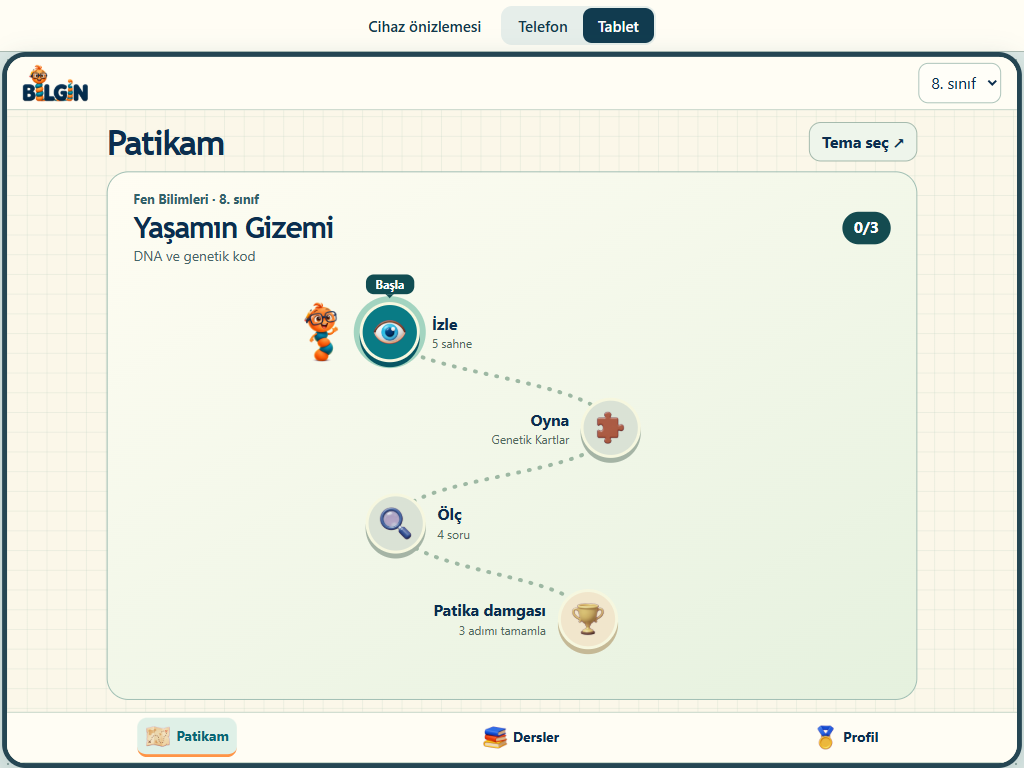
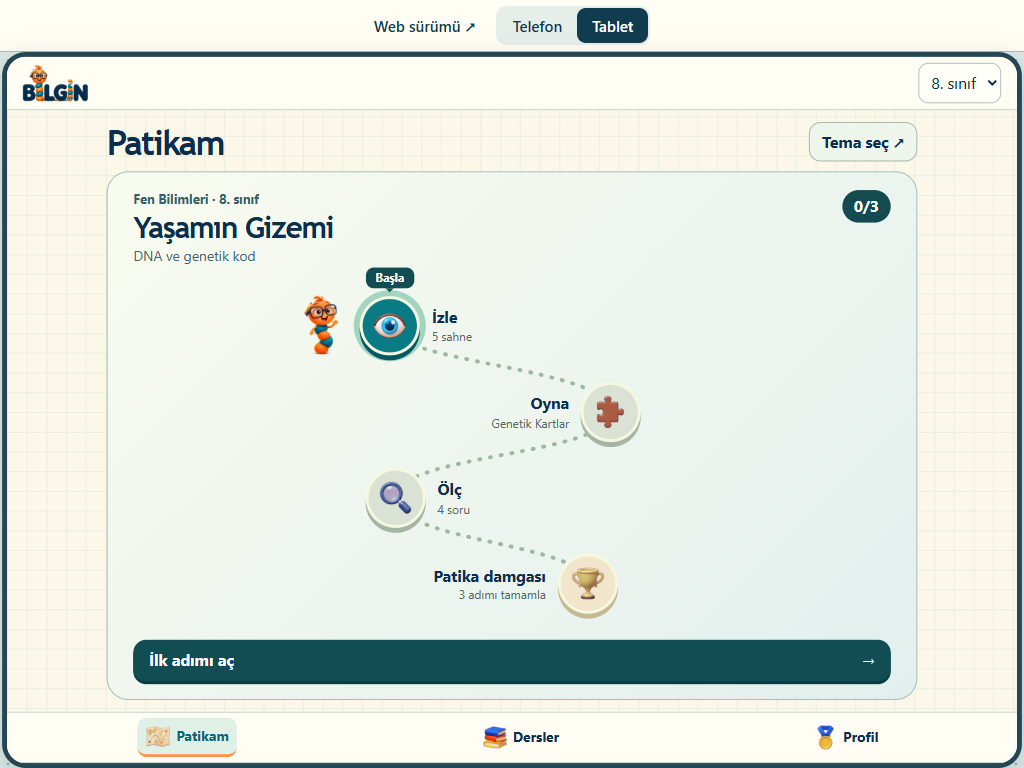
Add a grade-aware student web desk, game shelf and skills view

diff --git a/web/web.css b/web/web.css
@@ -1,0 +1,12 @@
+body{height:auto;min-height:100dvh;display:grid;grid-template-columns:190px minmax(0,1fr);grid-template-rows:70px 1fr auto;grid-template-areas:"top top" "nav main" "links main";background-color:#fcf9ee}
+.top{grid-area:top;justify-content:flex-start;padding:8px clamp(18px,3vw,46px);gap:16px;background:#fffdf6}.top img{width:83px;height:46px}.top .line{height:26px;border-left:1px solid #b8cbbb}.top strong{font-size:15px;color:#426361}.top label{margin-left:auto;font-size:14px}.top select{font-weight:750;margin-left:5px}
+nav{grid-area:nav;display:flex;flex-direction:column;justify-content:start;align-items:stretch;padding:30px 12px;gap:8px;background:#f4f4e7;border:0;border-right:1px solid #c5d2bf}nav a{justify-content:start;padding:10px 14px;gap:12px;font-size:16px}nav a[aria-current]{border:1px solid #a5c4ae;background:#dfedde}.resources{grid-area:links;display:grid;gap:8px;background:#f4f4e7;border-right:1px solid #c5d2bf;padding:14px 16px 24px}.resources a{color:#486353;font-weight:600;font-size:13px}.resources a:hover,.sectionTitle a:hover{text-decoration:underline}
+#screen{grid-area:main;width:min(100%,1310px);height:auto;min-height:calc(100dvh - 70px);padding:clamp(18px,3vw,46px);gap:18px;align-self:start;margin-inline:auto}
+h1{font-size:clamp(30px,3.3vw,54px)}.deskTitle,.sectionTitle,.journeyFoot{display:flex;align-items:center;justify-content:space-between;gap:12px}.deskTitle>a,.sectionTitle a{color:#245d55;font-weight:750;font-size:14px;display:inline-flex;align-items:center;gap:7px}.deskTitle>a{background:#fff3cf;border:1px solid #d8c196;border-radius:18px;padding:6px 12px}.deskTitle img{width:23px}
+.deskLayout{display:grid;grid-template-columns:minmax(0,1.65fr) minmax(210px,1fr);gap:16px}.featured,.journey,.gameCard{border:1px solid #a8c3af;border-radius:23px;overflow:hidden}.featured{position:relative;min-height:clamp(280px,37vh,410px);background:radial-gradient(ellipse at 79% 34%,#fff4c8 2%,transparent 51%),linear-gradient(120deg,#daefe5,#f2f2d5);display:grid;align-items:end}.featureArt{position:absolute;inset:0 0 0 37%;display:grid;align-items:center}.featureArt img{width:100%;height:88%;object-fit:contain;filter:drop-shadow(0 8px 6px #505e361a)}.featureCopy{position:relative;width:58%;align-self:center;padding:clamp(16px,2.1vw,32px);display:grid;justify-items:start;gap:10px}.featureCopy h2{font-size:clamp(28px,3vw,48px)}.featureCopy .action{margin-top:6px}.journey{padding:clamp(16px,1.6vw,24px);background:#fffdf3;display:grid;align-content:space-between;gap:14px}.sectionTitle h2{font-size:clamp(21px,2vw,30px)}.journey ol{margin:0;padding:0;list-style:none;display:grid;gap:10px}.journey li{display:flex;align-items:center;gap:11px}.journey li>span{background:#ecede3;border:1px solid #bdc9b8;border-radius:50%;min-width:32px;height:32px;display:grid;place-items:center;font-weight:800}.journey li.next>span{background:#ffd091;color:#4b371e;border-color:#d99a4e}.journey li.complete>span{background:#d5edd3}.journey li small{display:block;color:#52645c}.journeyFoot{padding-top:9px;border-top:1px dashed #c6cfba;font-size:14px}.journeyFoot img{width:26px}.journeyFoot span{margin-right:auto}.courses{display:grid;gap:12px}.courseGrid,.gameGrid{display:grid;grid-template-columns:repeat(3,minmax(0,1fr));gap:12px}.subjectCard{background:#fffdf6;border:1px solid #bccdc0;border-radius:16px;display:flex;align-items:center;text-align:left;gap:12px;padding:12px}.subjectCard:hover,.gameCard:hover{border-color:#4b927d}.subjectCard img{width:50px;height:50px;object-fit:contain;padding:4px;border-radius:12px;background:#e5f1e4}.hue1 img{background:#fff0d9}.hue2 img{background:#e2eef2}.subjectCard b,.subjectCard small{display:block}.subjectCard small{color:#4e655c}.subjectCard i{margin-left:auto;font-style:normal;font-size:23px}.gameCard{padding:18px;background:#fffdf5;display:grid;align-content:start;gap:9px}.gameCard img{width:56px;height:56px;object-fit:contain}.gameCard h2{font-size:22px}.gameCard .action{align-self:end}.gameCard p{font-size:15px}
+#screen>.trail{height:clamp(520px,69vh,740px);flex:none}.choices{min-height:380px;grid-template-columns:1fr 1fr;align-content:center;align-items:center;padding:clamp(20px,4vw,70px);gap:20px}.choices article,.choices button{grid-column:1/-1}.choices article{padding:22px}.choices .action{justify-self:start}.badgeBoard{min-height:360px}.profileTabs{max-width:520px}.collection{min-height:280px}.badgeTile{min-height:110px}.boardHeading span{margin-left:auto}
+@media(min-width:1500px){body{grid-template-columns:220px 1fr}}
+@media(max-width:1000px){body{grid-template-columns:145px 1fr}nav{padding-inline:7px}nav a{padding-inline:8px}.featureArt{inset:0 0 15% 44%}.courseGrid,.gameGrid{grid-template-columns:repeat(2,minmax(0,1fr))}.deskLayout{grid-template-columns:1.35fr 1fr}.featureCopy{width:67%}}
+@media(max-width:740px){body{display:flex;flex-direction:column}.top{padding:6px 12px}.top strong,.top .line{display:none}.top img{width:64px;height:36px}nav{position:sticky;top:0;z-index:5;flex-direction:row;justify-content:space-around;gap:0;padding:3px 0;border-bottom:1px solid #c5d2bf}nav a{flex-direction:column;gap:0;font-size:11px;padding:3px 4px}nav img{width:22px;height:22px}#screen{min-height:0;gap:12px;padding:14px}.deskLayout{grid-template-columns:1fr}.featured{min-height:210px}.featureCopy{width:62%}.featureArt{inset:0 0 0 48%}.journey ol{grid-template-columns:repeat(3,1fr);gap:4px}.journey li{gap:5px}.journey li small,.journeyFoot{display:none}.journey{padding:12px}.subjectCard{padding:8px;gap:6px}.subjectCard img{width:34px;height:34px}.subjectCard b{font-size:14px}.subjectCard i{display:none}.resources{display:flex;justify-content:center;flex-wrap:wrap;margin-top:auto;border:0;padding:10px}.resources a{font-size:12px}.choices{display:flex;flex-direction:column;align-items:stretch;justify-content:center;min-height:350px}.gameGrid{gap:8px}.gameCard{padding:10px}.gameCard h2{font-size:18px}#screen>.trail{height:max(410px,calc(100dvh - 230px))}}
+.resultsGrid{display:grid;grid-template-columns:repeat(auto-fit,minmax(min(270px,100%),1fr));gap:12px}.skillRows{list-style:none;padding:0}.skillRows li{display:grid;gap:3px;border-top:1px dashed #b7c7b8;padding:10px 0}.skillRows li span,.moreMap{font-size:14px;color:#405f57}.moreMap{text-decoration:underline}.skillPicker select{margin-left:8px}.resultsGrid .action{border:0}body[data-band=ilk] .subjectCard img{width:60px;height:60px}body[data-band=ilk] .journey li>span{border-radius:12px}.featured:after{content:"";position:absolute;top:9px;right:18px;width:38px;height:7px;background:repeating-linear-gradient(110deg,#ebb06b 0 4px,transparent 4px 8px);pointer-events:none}
+.featured{grid-template-columns:minmax(0,1fr) minmax(0,1fr);align-items:center}.featureArt{position:static;grid-column:2;grid-row:1;height:100%;min-width:0}.featureCopy{width:auto;grid-column:1;grid-row:1;padding-right:0;overflow-wrap:anywhere}.featureArt img{height:100%;max-height:330px}.themeIndex,.closeDialog{border:1px solid #b4c9bb;border-radius:12px;background:#f4f7eb;padding:9px 14px;font-weight:700;cursor:pointer}.choices .themeIndex{justify-self:start}.themeDialog{color:#10384b;width:min(560px,94vw);max-height:82dvh;border:1px solid #a5bdaf;border-radius:22px;padding:22px;background:#fffdf4}.themeDialog::backdrop{background:#183f47a0}.themeDialog ul{list-style:none;padding:0;margin-bottom:0}.themeDialog li{display:flex;justify-content:space-between;align-items:center;gap:8px;padding:9px 0;border-top:1px dashed #becbbd}.themeDialog li small{white-space:nowrap;color:#52685c}.themeDialog li button{font-size:13px;flex-shrink:0}

diff --git a/mobil/mobil.js b/mobil/mobil.js
@@ -5,7 +5,7 @@ const icons={'Matematik':'matematik','Fen Bilimleri':'fen','Türkçe':'turkce','
 gradeSelect.onchange=()=>{
  grade=gradeSelect.value;
  if(!subjects().includes(subject))subject=subjects()[0];
- theme='temel';openRoute(['#profil','#pasaport'].includes(location.hash)?location.hash.slice(1):'dersler');
+ theme='temel';const route=location.hash.slice(1);openRoute(webMode?(route||'masa'):(['profil','pasaport'].includes(route)?route:'dersler'));
 };
 function openRoute(route){
  remember();history.replaceState(null,'',url('uygulama.html','#'+route));render();
@@ -23,19 +23,24 @@ function path(){
    const label=titles[i]+', '+(done?(award?'pasaportunu aç':'tekrar aç'):active?'başla':'kilitli');
    return `<div class="stop ${x>50?'west':'east'}" style="--x:${x}%;--y:${y}%">
      <button class="node ${state}${award?' award':''}" ${action} aria-label="${label}" ${!done&&!active?'disabled':''}>
-     <img class="nodeIcon" src="ikon/${marks[i]}.png" alt="">${done&&!award?'<b class="doneTick" aria-hidden="true">✓</b>':''}</button>
+     <img class="nodeIcon" src="../mobil/ikon/${marks[i]}.png" alt="">${done&&!award?'<b class="doneTick" aria-hidden="true">✓</b>':''}</button>
      <div class="stopLabel"><strong>${titles[i]}</strong><small>${hints[i]}</small></div>
      ${active?'<span class="startFlag">Başla</span><img class="guideWorm" src="../img/poz_selam.webp" alt="">':''}</div>`;
  }).join('');
  const road='M29 16 C29 26 67 27 67 39 S30 50 30 62 S63 74 63 85';
  screen.innerHTML='<div class="heading"><h1>Patikam</h1><a class="switchLesson" href="#dersler">Tema seç ↗</a></div>'+`<section class="trail"><div class="trailTitle"><div><p class="eyebrow">${subject} · ${grade}. sınıf</p><h2>${current().title}</h2><p class="topicHint">${l.konu}</p></div><span class="score" aria-label="${n} adım tamamlandı">${n}/3</span></div>
- <div class="land"><svg class="track" viewBox="0 0 100 100" preserveAspectRatio="none" aria-hidden="true"><path d="${road}"/></svg>${nodes}</div></section>`;
+ <div class="land"><svg class="track" viewBox="0 0 100 100" preserveAspectRatio="none" aria-hidden="true"><path d="${road}"/></svg>${nodes}</div><a class="trailContinue" href="${n===3?'#pasaport':url('etkinlik.html')+'&adim='+steps[n]}"><span>${n===3?'Damgamı gör':n===0?'İlk adımı aç':'Kaldığım yerden devam et'}</span><b aria-hidden="true">→</b></a></section>`;
  screen.querySelectorAll('[data-step]').forEach(b=>b.onclick=()=>location.href=url('etkinlik.html')+'&adim='+steps[Number(b.dataset.step)]);
  screen.querySelector('[data-award]').onclick=()=>location.hash='pasaport';
 }
 function catalog(){
  screen.innerHTML='<h1>Dersler</h1><form id="choices" class="paper choices"><label>Ders<select id="subject"></select></label><label>Tema<select id="theme"></select></label><article id="preview"></article><button class="action">Patikayı aç →</button></form>';
  const course=screen.querySelector('#subject'),picker=screen.querySelector('#theme');
+ if(webMode){
+  const indexButton=document.createElement('button');
+  indexButton.type='button';indexButton.className='themeIndex';indexButton.textContent='Tüm sınıf temalarını incele';
+  indexButton.onclick=()=>curriculum(course.value);screen.querySelector('#choices').append(indexButton);
+ }
  for(const s of subjects())course.add(new Option(s,s,false,s===subject));
  function populate(preferred){
   picker.replaceChildren();
@@ -62,7 +67,7 @@ function profile(page){
  const counts=new Map(list.map(s=>[s,stamps.filter(x=>x.grade===grade&&x.subject===s).length]));
  const badges=[...counts.values()].filter(Boolean).length;
  const passport=page==='pasaport';
- screen.innerHTML=`<div class="heading"><h1>Profilim</h1></div><div class="profileSummary"><img src="../img/poz_rozet.webp" alt=""><div><strong>${stamps.length} damga</strong><small>Tüm sınıflardaki pasaportum</small></div></div><div class="profileTabs"><a href="#pasaport" ${passport?'aria-current="page"':''}><img src="ikon/defter.png" alt="">Pasaportum</a><a href="#profil" ${!passport?'aria-current="page"':''}><img src="ikon/madalya.png" alt="">Rozetlerim</a></div><article class="paper collection"></article><div class="pager"></div>`;
+ screen.innerHTML=`<div class="heading"><h1>Profilim</h1></div><div class="profileSummary"><img src="../img/poz_rozet.webp" alt=""><div><strong>${stamps.length} damga</strong><small>Tüm sınıflardaki pasaportum</small></div></div><div class="profileTabs"><a href="#pasaport" ${passport?'aria-current="page"':''}><img src="../mobil/ikon/defter.png" alt="">Pasaportum</a><a href="#profil" ${!passport?'aria-current="page"':''}><img src="../mobil/ikon/madalya.png" alt="">Rozetlerim</a></div><article class="paper collection"></article><div class="pager"></div>`;
  const card=screen.querySelector('.collection');
  if(passport){
   if(!stamps.length){card.innerHTML='<h2>İlk damganı kazan</h2><p>Bir temanın İzle, Oyna ve Ölç adımlarını bitir. Tema damgan bu pasaporta işlenecek.</p><a class="action" href="#dersler">Tema seç →</a>';return}
@@ -84,10 +89,11 @@ function profile(page){
  }
 }
 function render(){
- let page=location.hash.slice(1)||'patika';
+ let page=location.hash.slice(1)||(webMode?'masa':'patika');
+ document.body.dataset.band=Number(grade)<=3?'ilk':Number(grade)>=7?'ust':'orta';
  if(['harita','defter','rozetler'].includes(page))page='profil';
  const tab=page==='pasaport'?'profil':page;
  document.querySelectorAll('nav a').forEach(a=>{if(a.hash==='#'+tab)a.setAttribute('aria-current','page');else a.removeAttribute('aria-current')});
- if(page==='dersler')catalog();else if(page==='profil'||page==='pasaport')profile(page);else path();
+ if(webMode&&page==='masa')desk();else if(webMode&&page==='oyunlar')games();else if(webMode&&page==='beceri')skillMap();else if(page==='dersler')catalog();else if(page==='profil'||page==='pasaport')profile(page);else path();
 }
 window.addEventListener('pageshow',render);window.addEventListener('hashchange',render);render();

diff --git a/web/masa.js b/web/masa.js
@@ -1,0 +1,57 @@
+function subjectCards(){
+ return subjects().map((s,i)=>`<button class="subjectCard hue${i%3}" data-course="${s}"><img src="../assets/ders/${icons[s]}.png" alt=""><span><b>${s}</b><small>${themeList(grade,s).length} tema</small></span><i aria-hidden="true">›</i></button>`).join('');
+}
+function bindCourses(){
+ screen.querySelectorAll('[data-course]').forEach(b=>b.onclick=()=>{
+  subject=b.dataset.course;theme='temel';openRoute('dersler');
+ });
+}
+function desk(){
+ const l=lesson(),n=level(),stamps=earned();
+ const art=grade==='4'?'../assets/bridge2.png':'../assets/sahne/k'+grade+'.webp';
+ const next=n===3?'Patikayı tekrar aç':n===0?'Patikaya başla':'Kaldığın yerden devam et';
+ screen.innerHTML=`<div class="deskTitle"><h1>Öğrenme masam</h1><a href="#pasaport"><img src="../mobil/ikon/madalya.png" alt=""> ${stamps.length} damga</a></div>
+ <div class="deskLayout"><article class="featured"><div class="featureArt"><img src="${art}" alt=""></div><div class="featureCopy"><p class="eyebrow">${subject} · ${grade}. sınıf</p><h2>${current().title}</h2><p>${l.konu}</p><a class="action" id="continue" href="${n===3?'#patika':url('etkinlik.html')+'&adim='+steps[n]}">${next} →</a></div></article>
+ <section class="journey"><div class="sectionTitle"><h2>Patikam</h2><a href="#patika">Haritayı aç →</a></div><ol>${labels.map((label,i)=>`<li class="${i<n?'complete':i===n?'next':''}"><span>${i<n?'✓':i+1}</span><div><b>${label}</b><small>${[l.v.length+' anlatım sahnesi',l.oyun.ad,l.test.length+' soru'][i]}</small></div></li>`).join('')}</ol><div class="journeyFoot"><img src="../mobil/ikon/kupa.png" alt=""><span>${n===3?'Damgan pasaportunda':'Tema damgası'}</span><b>${n}/3</b></div></section></div>
+ <section class="courses"><div class="sectionTitle"><h2>Derslerim</h2><a href="#dersler">Tema seç →</a></div><div class="courseGrid">${subjectCards()}</div></section>`;
+ bindCourses();
+}
+function games(){
+ screen.innerHTML=`<div class="deskTitle"><h1>Oyun dolabı</h1><a href="../?k=${grade}#oyna">Bilgin’in oyun masası ↗</a></div><div class="gameGrid">${subjects().map(s=>{
+  const l=originals[grade+'|'+s],q=new URLSearchParams({k:grade,d:s});
+  return `<article class="gameCard"><img src="../assets/ders/${icons[s]}.png" alt=""><p class="eyebrow">${s}</p><h2>${l.oyun.ad}</h2><p>${l.oyun.yonerge}</p><a class="action" href="oyun.html?${q}">Oyna →</a></article>`;
+ }).join('')}</div>`;
+}
+function skillMap(){
+ screen.innerHTML='<div class="deskTitle"><h1>Beceri haritam</h1></div><label class="skillPicker">Ders <select id="mapCourse" aria-label="Rapor dersi"></select></label><section class="resultsGrid"></section><a class="moreMap" href="../#harita">AI-LA’nın altı platformdan oluşan örnek beceri haritasını incele ↗</a>';
+ const picker=screen.querySelector('#mapCourse');
+ subjects().forEach(s=>picker.add(new Option(s,s,false,s===subject)));
+ function show(){
+  const course=picker.value;
+  screen.querySelector('.resultsGrid').innerHTML=themeList(grade,course).map(t=>{
+   const score=result(grade,course,t.id);
+   const rows=t.lesson.beceri.map(name=>{
+    const record=Array.isArray(score?.skills)?score.skills.find(b=>b?.name===name&&Number.isInteger(b.correct)&&Number.isInteger(b.total)&&b.total>0):null;
+    return `<li><strong>${name}</strong><span>${record?record.correct+' / '+record.total+' ilk denemede doğru':'Henüz ölçülmedi'}</span>${record?'<meter aria-label="'+name+'" value="'+record.correct+'" max="'+record.total+'"></meter>':''}</li>`;
+   }).join('');
+   return `<article class="gameCard"><p class="eyebrow">${course}</p><h2>${t.title}</h2><ul class="skillRows">${rows}</ul><button class="action" data-theme="${t.id}">Patikaya git →</button></article>`;
+  }).join('');
+  screen.querySelectorAll('[data-theme]').forEach(b=>b.onclick=()=>{subject=course;theme=b.dataset.theme;openRoute('patika')});
+ }
+ picker.onchange=show;show();
+}
+function curriculum(course){
+ const list=themeList(grade,course),names=TEMALAR[grade+'|'+course]||[];
+ const titles=[...new Set([...names,...list.map(t=>t.title)])];
+ const dialog=document.createElement('dialog');dialog.className='themeDialog';
+ dialog.setAttribute('aria-labelledby','themeIndexTitle');
+ dialog.innerHTML=`<div class="sectionTitle"><div><p class="eyebrow">${grade}. sınıf · ${course}</p><h2 id="themeIndexTitle">Tema dizini</h2></div><button class="closeDialog" aria-label="Kapat">×</button></div><ul>${titles.map(title=>{
+  const playable=list.find(t=>t.title===title);
+  return '<li><strong>'+title+'</strong>'+(playable?'<button class="action" data-open="'+playable.id+'">Patikayı aç →</button>':'<small>Program teması</small>')+'</li>';
+ }).join('')}</ul>`;
+ document.body.append(dialog);
+ dialog.querySelector('.closeDialog').onclick=()=>dialog.close();
+ dialog.onclose=()=>dialog.remove();
+ dialog.querySelectorAll('[data-open]').forEach(b=>b.onclick=()=>{dialog.close();subject=course;theme=b.dataset.open;openRoute('patika')});
+ dialog.showModal();
+}

diff --git a/index.html b/index.html
@@ -752,7 +752,7 @@ body.dolapta .sekme-kenar{opacity:0;pointer-events:none;transform:translate(100%
   <h2 id="girisBaslik">Sizin için hazırlanıyoruz</h2>
   <p>Bilgin’de öğrenci, öğretmen ve veli girişi çok yakında açılıyor. Patikalar, oyunlar ve beceri haritası sizin için hazırlanıyor.</p>
   <p class="giris-alt">Okulunuzu ilk açılanlar arasına almak için şimdiden demo talep edebilirsiniz.</p>
-  <div class="giris-btnler"><button class="hap turuncu" id="girisDemo" type="button">Demo talep et</button><button class="hap cizgi" type="button" data-kapat>Tamam</button></div>
+  <div class="giris-btnler"><button class="hap turuncu" id="girisDemo" type="button">Demo talep et</button><a class="hap cizgi" href="web/">Öğrenci alanını aç</a></div>
 </dialog>
 
 <nav class="sekme-kenar" id="sekmeKenar" aria-label="Sınıf sekmeleri"><button class="sk sk1" data-k="1" aria-pressed="false" aria-label="1. sınıf">K1</button><button class="sk sk2" data-k="2" aria-pressed="false" aria-label="2. sınıf">K2</button><button class="sk sk3" data-k="3" aria-pressed="false" aria-label="3. sınıf">K3</button><button class="sk sk4" data-k="4" aria-pressed="false" aria-label="4. sınıf">K4</button><button class="sk sk5" data-k="5" aria-pressed="false" aria-label="5. sınıf">K5</button><button class="sk sk6" data-k="6" aria-pressed="false" aria-label="6. sınıf">K6</button><button class="sk sk7" data-k="7" aria-pressed="false" aria-label="7. sınıf">K7</button><button class="sk sk8" data-k="8" aria-pressed="false" aria-label="8. sınıf">K8</button></nav>
@@ -927,7 +927,7 @@ body.dolapta .sekme-kenar{opacity:0;pointer-events:none;transform:translate(100%
   </div>
 </section>
 </main>
-<footer><div class="ic"><img class="logo-acik" src="assets/logo.png" alt="BİLGİN"><img class="logo-koyu" src="assets/logo_beyaz.png" alt="BİLGİN"><nav class="alt-nav" aria-label="Alt menü"><a href="kvkk/">KVKK</a><a href="#kurumlar">Demo talebi</a><a href="https://ai-la.ai" target="_blank" rel="noopener">ai-la.ai</a></nav><span>Bilgin bir <a href="https://ai-la.ai" target="_blank" rel="noopener">AI-LA ekosistem</a> ürünüdür. İçerikler Türkiye Yüzyılı Maarif Modeli öğretim programlarına göre hazırlanır. Oyun adları ve puanlar tanıtım örneğidir.</span></div></footer>
+<footer><div class="ic"><img class="logo-acik" src="assets/logo.png" alt="BİLGİN"><img class="logo-koyu" src="assets/logo_beyaz.png" alt="BİLGİN"><nav class="alt-nav" aria-label="Alt menü"><a href="web/">Öğrenci alanı</a><a href="kvkk/">KVKK</a><a href="#kurumlar">Demo talebi</a><a href="https://ai-la.ai" target="_blank" rel="noopener">ai-la.ai</a></nav><span>Bilgin bir <a href="https://ai-la.ai" target="_blank" rel="noopener">AI-LA ekosistem</a> ürünüdür. İçerikler Türkiye Yüzyılı Maarif Modeli öğretim programlarına göre hazırlanır. Oyun adları ve puanlar tanıtım örneğidir.</span></div></footer>
 
 <script src="iop/icerik.js"></script>
 <script src="iop/iop.js"></script>
@@ -1059,7 +1059,9 @@ $('#dolapK').onclick=e=>{const b=e.target.closest('.dk'); if(!b) return; ton('ti
   const o=$('#oyna'), y=o.getBoundingClientRect().top; sinif(+b.dataset.k); const f=o.getBoundingClientRect().top-y; if(Math.abs(f)>1) scrollBy(0,f);};
 /* dolap ekrandayken kenar sekmeleri çekilir: sınıf seçimi dolabın kendi satırında */
 if('IntersectionObserver' in window){ const ic=new Set(); const io=new IntersectionObserver(gl=>{gl.forEach(g=>g.isIntersecting?ic.add(g.target):ic.delete(g.target)); document.body.classList.toggle('dolapta',ic.size>0);},{rootMargin:'-45% 0px -45% 0px'}); [$('#oyna'),$('#patika'),$('#gecit')].forEach(el=>el&&io.observe(el)); }
-sinif(4);
+const baslangicSinifi=Number(new URLSearchParams(location.search).get("k"));
+const ilkSinif=Number.isInteger(baslangicSinifi)&&baslangicSinifi>=1&&baslangicSinifi<=8?baslangicSinifi:4;
+sinif(ilkSinif);
 window.__heroHazir=true;
 
 /* ---------- beceri haritası ---------- */
@@ -1339,7 +1341,7 @@ function dolapOyunAc(i){
 }
 $('#oyunSekme').onclick=e=>{const b=e.target.closest('button.oyun-ad'); if(b){ton('tik'); dolapOyunAc(+b.dataset.o);}};
 $('#dolapRaf').onclick=e=>{const g=e.target.closest('.goz'); if(!g) return; ton('tik'); dolapDers=g.dataset.d; dolapOyna();};
-dolapCiz(4);
+dolapCiz(ilkSinif);
 window.__dolapHazir=true;
 /* İzle, oyna, ölç: dolabın masa sütununa üç adım. Oyna = dolabın oyunları, ölç sonucu beceri haritasına. */
 (()=>{

diff --git a/mobil/mobil.css b/mobil/mobil.css
@@ -17,3 +17,4 @@ nav a{display:inline-flex;align-items:center;justify-content:center;gap:5px;padd
 .badgeBoard{flex:1;min-height:0;display:flex;flex-direction:column;gap:8px}.boardHeading{display:flex;justify-content:space-between;align-items:center;gap:6px}.boardHeading h2{font-size:20px}.boardHeading span{font-size:13px;color:#365d59}.badges{list-style:none;display:grid;grid-template-columns:repeat(2,minmax(0,1fr));grid-auto-rows:minmax(0,1fr);gap:8px;margin:0;padding:0;flex:1;min-height:0}.badgeTile{border:1px solid #b8ccc4;border-radius:17px;background:linear-gradient(145deg,#fffdf6,#edf4eb);display:flex;flex-direction:column;align-items:center;justify-content:center;gap:4px;padding:5px;min-height:0;text-align:center}.badgeTile.earned{border-color:#79aa93;background:linear-gradient(145deg,#faffef,#deefe5)}.badgeTile.mastered{border-color:#d4a648;background:linear-gradient(145deg,#fff9dd,#f9eac4)}.badgeFace{position:relative;display:grid;place-items:center;width:clamp(42px,7vh,71px);aspect-ratio:1;max-height:49%;transform:scale(var(--growth));background:#e0ece4;border-radius:36% 36% 47% 47%;box-shadow:0 3px 0 #b8ccc3}.earned .badgeFace,.mastered .badgeFace{background:#ffdf93;box-shadow:0 3px 0 #c89a4b}.badgeFace img{width:82%;height:82%;object-fit:contain}.badgeTile strong{font-size:14px;line-height:1.1}.badgeMeter{display:flex;align-items:center;justify-content:center;gap:6px;width:86%;font-variant-numeric:tabular-nums}.badgeMeter progress{width:54%;height:8px;accent-color:#117d75}.badgeMeter small{font-size:11px}.badgeTile.waiting .badgeFace img{filter:saturate(.8)}
 @media(min-width:600px){.badges{grid-template-columns:repeat(3,minmax(0,1fr))}.badgeFace{width:clamp(52px,10vh,84px)}.badgeTile strong{font-size:17px}.badgeMeter small{font-size:13px}}
 @media(max-height:690px){main:has(.badgeBoard){gap:6px}main:has(.badgeBoard) .profileSummary img{width:38px;height:38px}.badgeTile{gap:3px}}
+.trailContinue{display:flex;align-items:center;justify-content:space-between;padding:9px 16px;min-height:42px;background:#114d52;color:white;border-radius:13px;font-weight:750;box-shadow:0 3px 0 #083c41}.trail{background:radial-gradient(ellipse at 5% 90%,#dceccc 1%,transparent 42%),linear-gradient(150deg,#fffdf3,#eef4e6)}.trailTitle{align-items:flex-start}.trailTitle .score{flex-shrink:0}.choices article{background:#edf4e5;border:1px solid #c3d3bc;border-radius:16px;padding:12px}.choices .action{min-height:44px;justify-self:stretch;text-align:center}.profileSummary{background:#fff2ce;border:1px solid #e9cea0;border-radius:14px;padding:3px 10px}.profileSummary img{height:48px}.trailContinue:focus-visible,.action:focus-visible{outline-offset:3px}body[data-band=ilk] .node{border-width:4px}body[data-band=ilk] .stopLabel strong{font-size:18px}body[data-band=ust] .trail{background:linear-gradient(135deg,#f8fbef,#e3efee)}

diff --git a/mobil/index.html b/mobil/index.html
@@ -1,7 +1,7 @@
 <!doctype html><html lang="tr"><meta charset="utf-8"><meta name="viewport" content="width=device-width,initial-scale=1,viewport-fit=cover"><title>BİLGİN · Patika simülatörü</title><link rel="icon" href="../favicon.ico">
 <style>
 *{box-sizing:border-box}body{margin:0;height:100dvh;display:grid;grid-template-rows:auto minmax(0,1fr);background:#dbe7e4;color:#14384c;font:600 15px 'Segoe UI',sans-serif}header{display:flex;align-items:center;justify-content:center;gap:20px;padding:6px;background:#fffdf4;border-bottom:1px solid #abbbb3}header img{width:58px;height:32px;object-fit:contain}button{border:0;border-radius:9px;min-height:35px;padding:0 15px;font:inherit;color:inherit;background:transparent;cursor:pointer}button[aria-pressed=true]{background:#113b4f;color:white}.switch{background:#e6eeea;border-radius:11px;padding:2px}main{position:relative;min-height:0;background-image:radial-gradient(#93aaa5 1px,transparent 1px);background-size:16px 16px}iframe{position:absolute;top:50%;left:50%;transform-origin:center;background:#fff9ec;border:5px solid #254653;border-radius:24px;box-shadow:0 7px 26px #244f5330;box-sizing:content-box}@media(max-width:500px){header{justify-content:space-between;padding-inline:12px}iframe{border-width:0;border-radius:0}}
-</style><header><span>Cihaz önizlemesi</span><div class="switch" aria-label="Cihaz önizlemesi"><button data-mode="telefon">Telefon</button><button data-mode="tablet">Tablet</button></div></header><main><iframe title="BİLGİN öğrenci uygulaması"></iframe></main><script>
+</style><header><a href="../web/" style="color:inherit;text-decoration:none">Web sürümü ↗</a><div class="switch" aria-label="Cihaz önizlemesi"><button data-mode="telefon">Telefon</button><button data-mode="tablet">Tablet</button></div></header><main><iframe title="BİLGİN öğrenci uygulaması"></iframe></main><script>
 const frame=document.querySelector('iframe'),stage=document.querySelector('main');
 let mode=innerWidth>=740&&innerWidth<=1100?'tablet':'telefon';
 function size(){

diff --git a/web/oyun.html b/web/oyun.html
@@ -1,0 +1,18 @@
+<!doctype html><html lang="tr"><meta charset="utf-8"><meta name="viewport" content="width=device-width,initial-scale=1"><title>Oyun masası · BİLGİN</title><link rel="icon" href="../favicon.ico"><link rel="stylesheet" href="../iop/iop.css"><link rel="stylesheet" href="../mobil/mobil.css"><link rel="stylesheet" href="../mobil/etkinlik.css"><style>
+#iop .io-adimlar{display:none}#iop{padding-top:15px}.freeplay{max-width:900px}body{grid-template-rows:56px 1fr}
+</style><header><a id="back">← Oyun dolabı</a><img src="../assets/logo.png" alt="Bilgin"></header><main class="freeplay"><p class="eyebrow" id="context"></p><h1 id="topic"></h1><div id="space"><section id="iop" class="iop"></section></div></main>
+<script src="../iop/icerik.js"></script><script src="../iop/iop.js"></script><script>
+const params=new URLSearchParams(location.search),k=params.get('k'),d=params.get('d');
+const [grade,subject]=(Object.hasOwn(IOP_DERS,k+'|'+d)?k+'|'+d:'5|Fen Bilimleri').split('|');
+document.querySelector('#back').href='index.html?k='+grade+'#oyunlar';
+document.querySelector('#context').textContent=grade+'. sınıf · '+subject;
+document.querySelector('#topic').textContent=IOP_DERS[grade+'|'+subject].oyun.ad;
+const root=document.querySelector('#iop'),engine=IOP.kur(root,{kok:'../',sinif:Number(grade),ders:subject});
+engine.git('oyna',true);
+new MutationObserver(()=>{
+ const next=root.querySelector('#io-oileri');
+ if(next&&!next.hidden&&root.querySelector('.io-adim[data-p="oyna"].bitti')&&next.textContent!=='Dolaba dön →'){
+  next.textContent='Dolaba dön →';next.onclick=()=>location.href=document.querySelector('#back').href;
+ }
+}).observe(root,{subtree:true,childList:true,attributes:true,attributeFilter:['hidden','class']});
+</script></html>

diff --git a/web/index.html b/web/index.html
@@ -1,0 +1,9 @@
+<!doctype html>
+<html lang="tr" data-app="web"><head>
+<meta charset="utf-8"><meta name="viewport" content="width=device-width,initial-scale=1"><title>Öğrenme masam · BİLGİN</title><link rel="icon" href="../favicon.ico">
+<link rel="stylesheet" href="../mobil/mobil.css"><link rel="stylesheet" href="web.css"></head>
+<body><header class="top"><a href="#masa" aria-label="Öğrenme masam"><img src="../assets/logo.png" alt="Bilgin"></a><span class="line"></span><strong>Öğrenci alanı</strong><label><span>Sınıfım</span> <select id="grade" aria-label="Sınıf seç"></select></label></header>
+<nav aria-label="Öğrenci menüsü"><a href="#masa"><img src="../mobil/ikon/defter.png" alt="">Masam</a><a href="#patika"><img src="../mobil/ikon/harita.png" alt="">Patikam</a><a href="#dersler"><img src="../mobil/ikon/kitaplar.png" alt="">Dersler</a><a href="#oyunlar"><img src="../mobil/ikon/yapboz.png" alt="">Oyun dolabı</a><a href="#beceri"><img src="../mobil/ikon/buyutec.png" alt="">Beceriler</a><a href="#profil"><img src="../mobil/ikon/madalya.png" alt="">Profil</a></nav>
+<main id="screen"></main>
+<aside class="resources" aria-label="Bilgin bağlantıları"><a href="../#harita">AI-LA beceri haritası ↗</a><a href="../#kurumlar">Okullar için BİLGİN ↗</a><a href="../mobil/">Cihaz simülatörü ↗</a></aside>
+<script src="../iop/icerik.js"></script><script src="../iop/temalar.js"></script><script src="../mobil/tema-atolyesi.js"></script><script src="../mobil/notlar.js"></script><script src="masa.js"></script><script src="../mobil/mobil.js"></script></body></html>

diff --git a/mobil/notlar.js b/mobil/notlar.js
@@ -1,4 +1,4 @@
-const params=new URLSearchParams(location.search);
+const params=new URLSearchParams(location.search);
 const steps=['izle','oyna','olc'],labels=['İzle','Oyna','Ölç'];
 function stored(key){try{return localStorage.getItem(key)}catch{return null}}
 function write(key,value){try{localStorage.setItem(key,value);return true}catch{return false}}
@@ -27,7 +27,15 @@ function result(k=grade,s=subject,t=theme){
 function level(){return result()?3:Math.max(0,Math.min(2,Number(read('adim.'))||0))}
 function selection(){return new URLSearchParams({k:grade,d:subject,tema:theme})}
 function remember(){write('bilgin.patikam',selection().toString())}
-function url(file,hash=''){return file+'?'+selection()+hash}
+const webMode=document.documentElement.dataset.app==='web'||params.get('gorunum')==='web';
+function url(file,hash=''){
+ const q=selection();
+ if(webMode){
+  if(file==='uygulama.html')file='../web/index.html';
+  else if(file==='etkinlik.html'){file='../mobil/etkinlik.html';q.set('gorunum','web')}
+ }
+ return file+'?'+q+hash;
+}
 function earned(){
  const stamps=[];
  for(const key of Object.keys(originals)){
